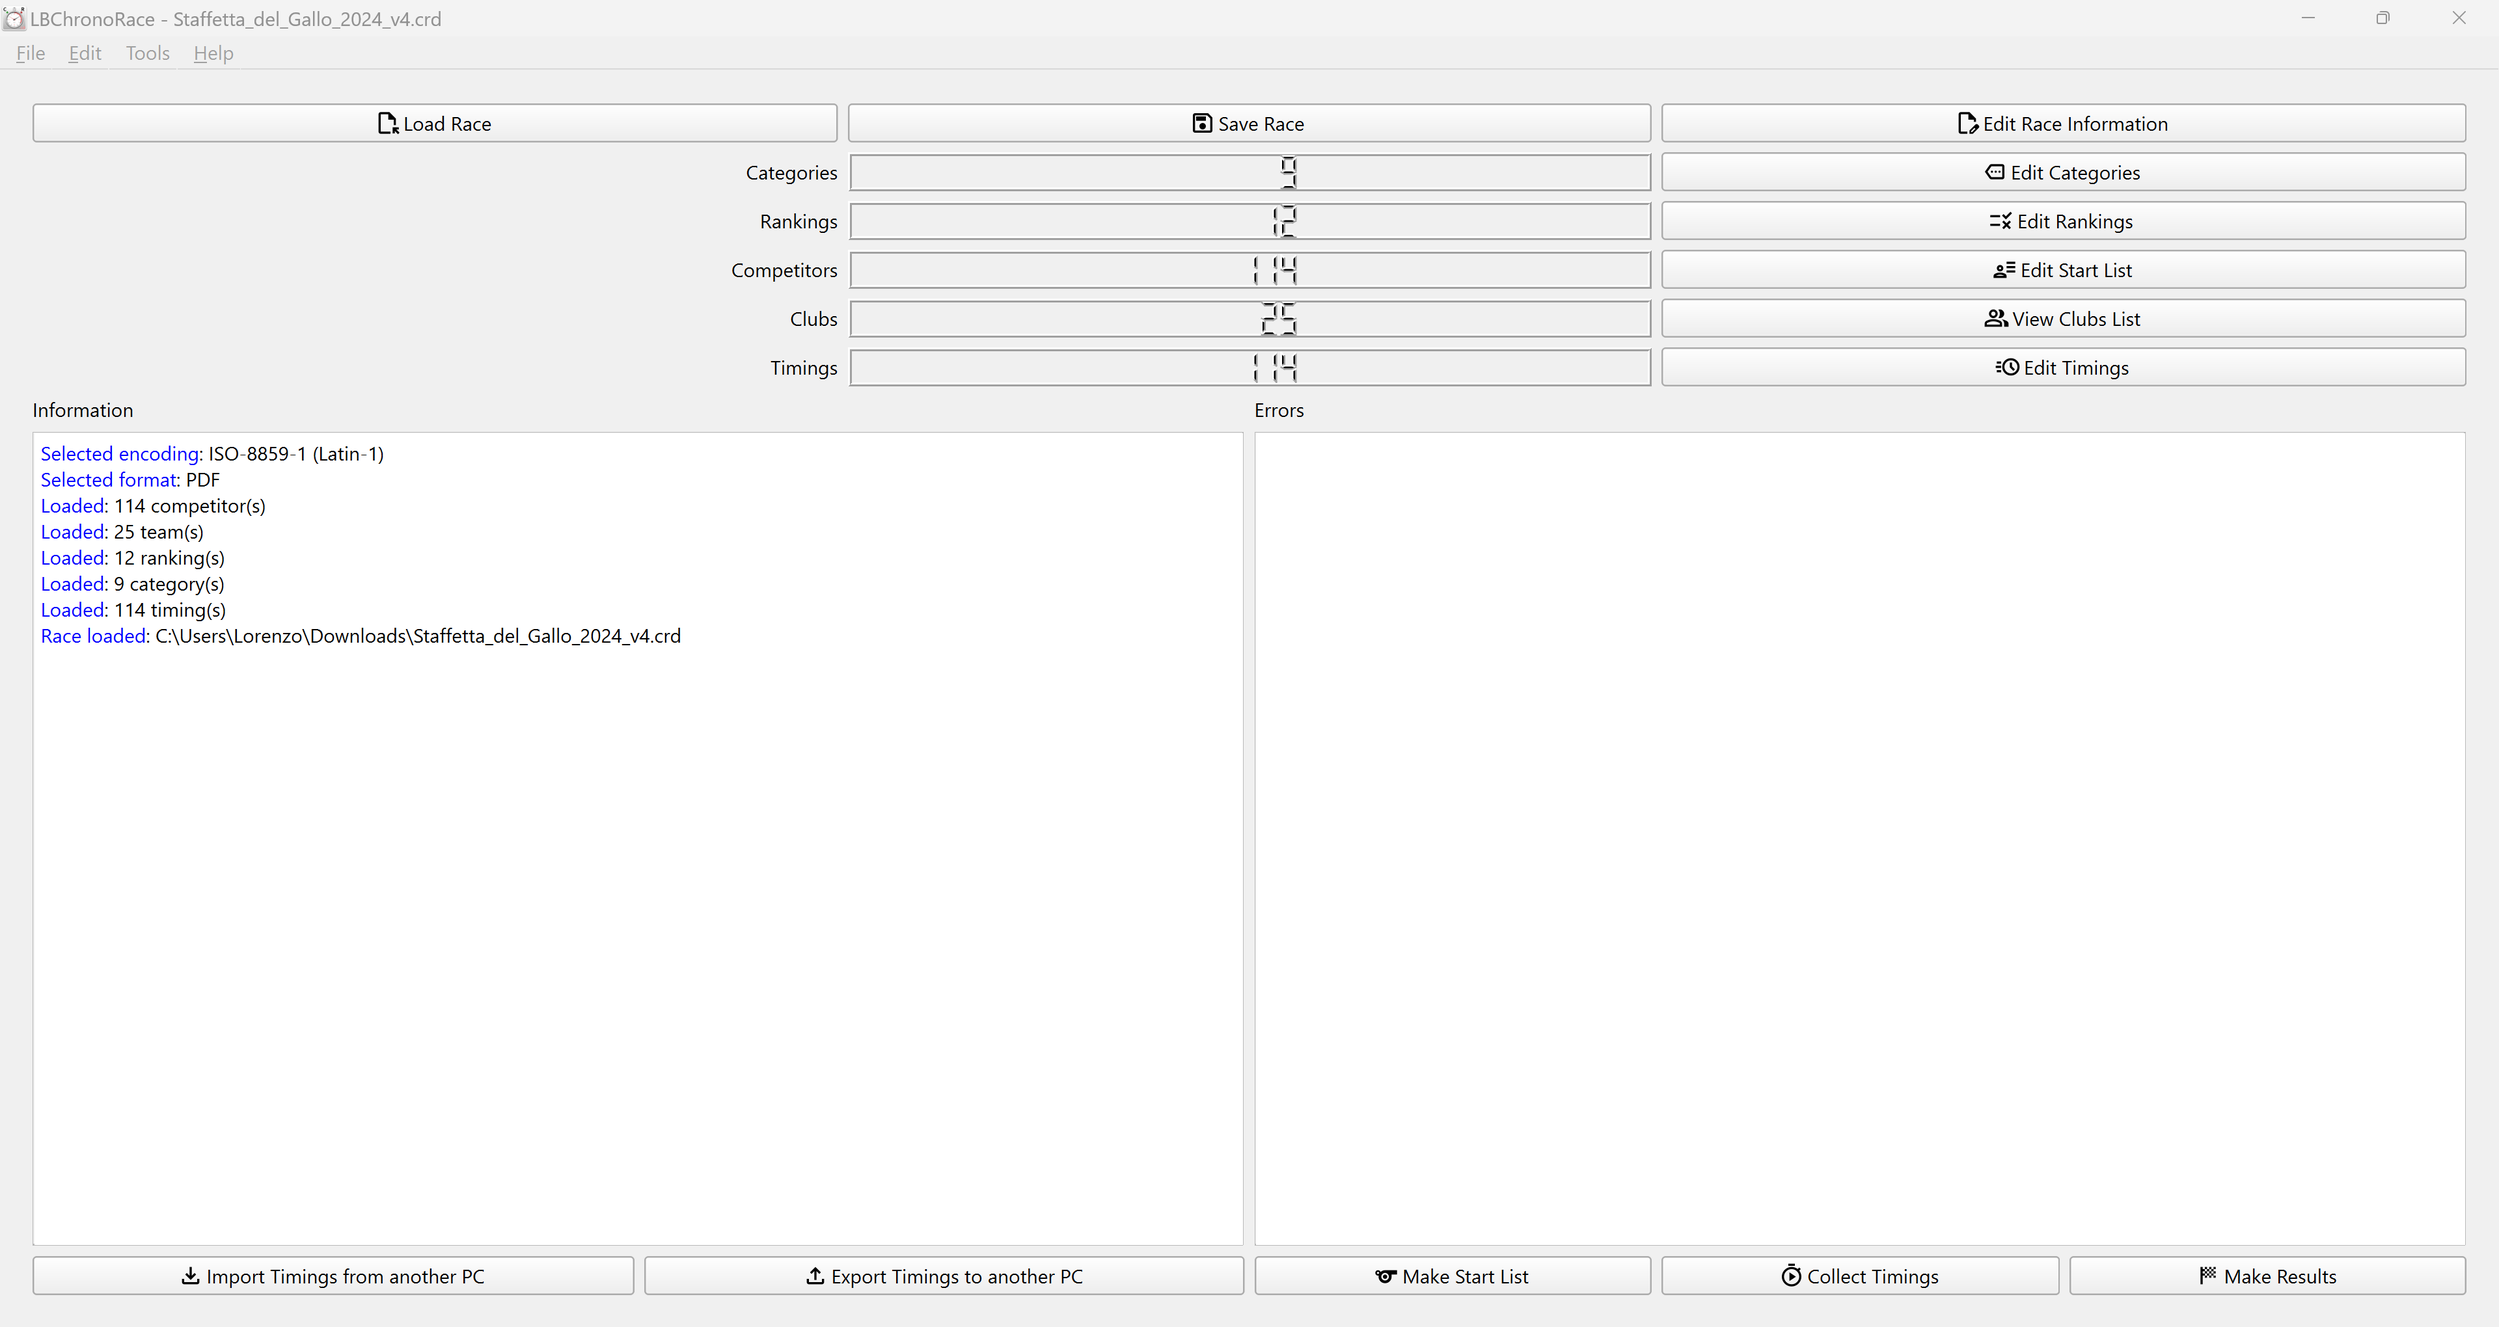
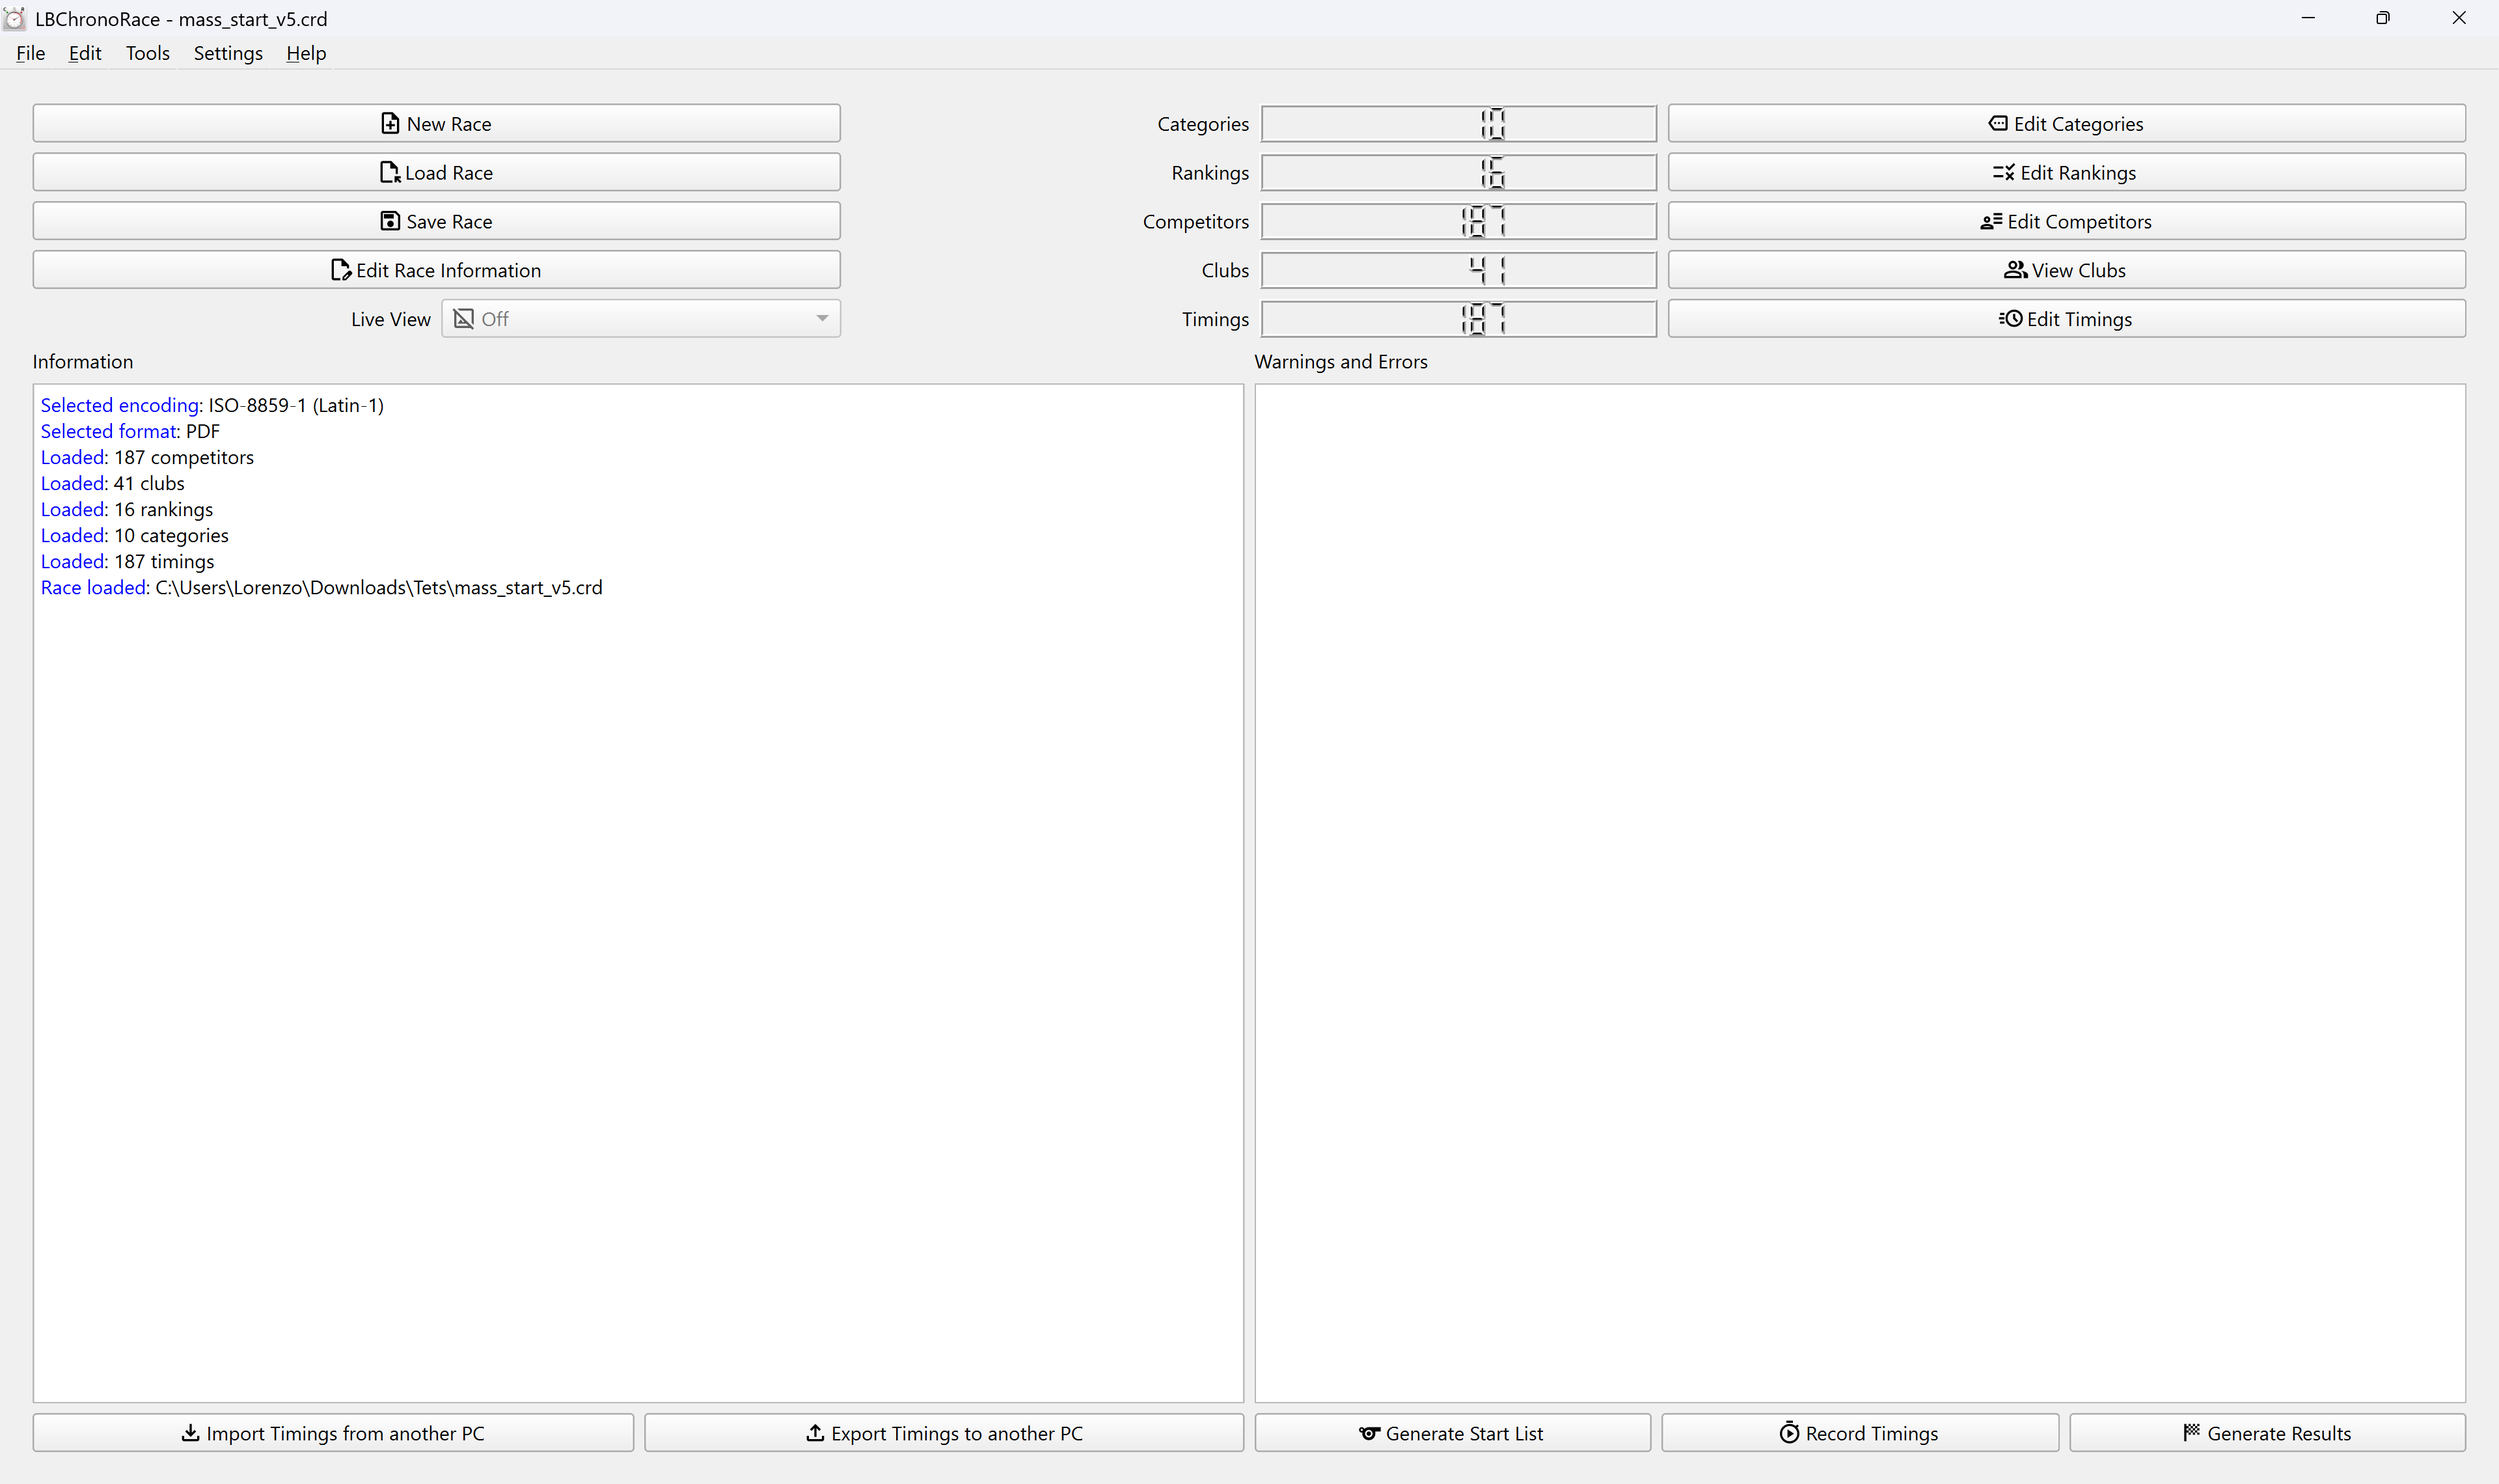
Update project preview and GitHub documentation

diff --git a/README.it.md b/README.it.md
@@ -22,6 +22,7 @@ Software Desktop gratuito per produrre le classifiche delle corse podistiche in 
 - Tutte le tabelle consentono sia l'inserimento manuale dei dati che l'importazione/esportazione in CSV
 - Codifica Latin1 o UTF-8 selezionabile per importazione/esportazione in CSV
 - Classifiche e Ordini di partenza in PDF, CSV o testo
+- Vista da vivo dell'Elenco concorrenti e della Classifica 
 
 ## Scaricare
 

diff --git a/README.md b/README.md
@@ -23,6 +23,7 @@ Free Desktop software for producing the results of footraces in different format
 - All the tables allow both manual data entry and import/export to CSV
 - Latin1 or UTF-8 encoding for import/export from/to CSV
 - Results and Start list in PDF, CSV or plain text
+- Live View of Competitors List and Rankings 
 
 ## Download
 
